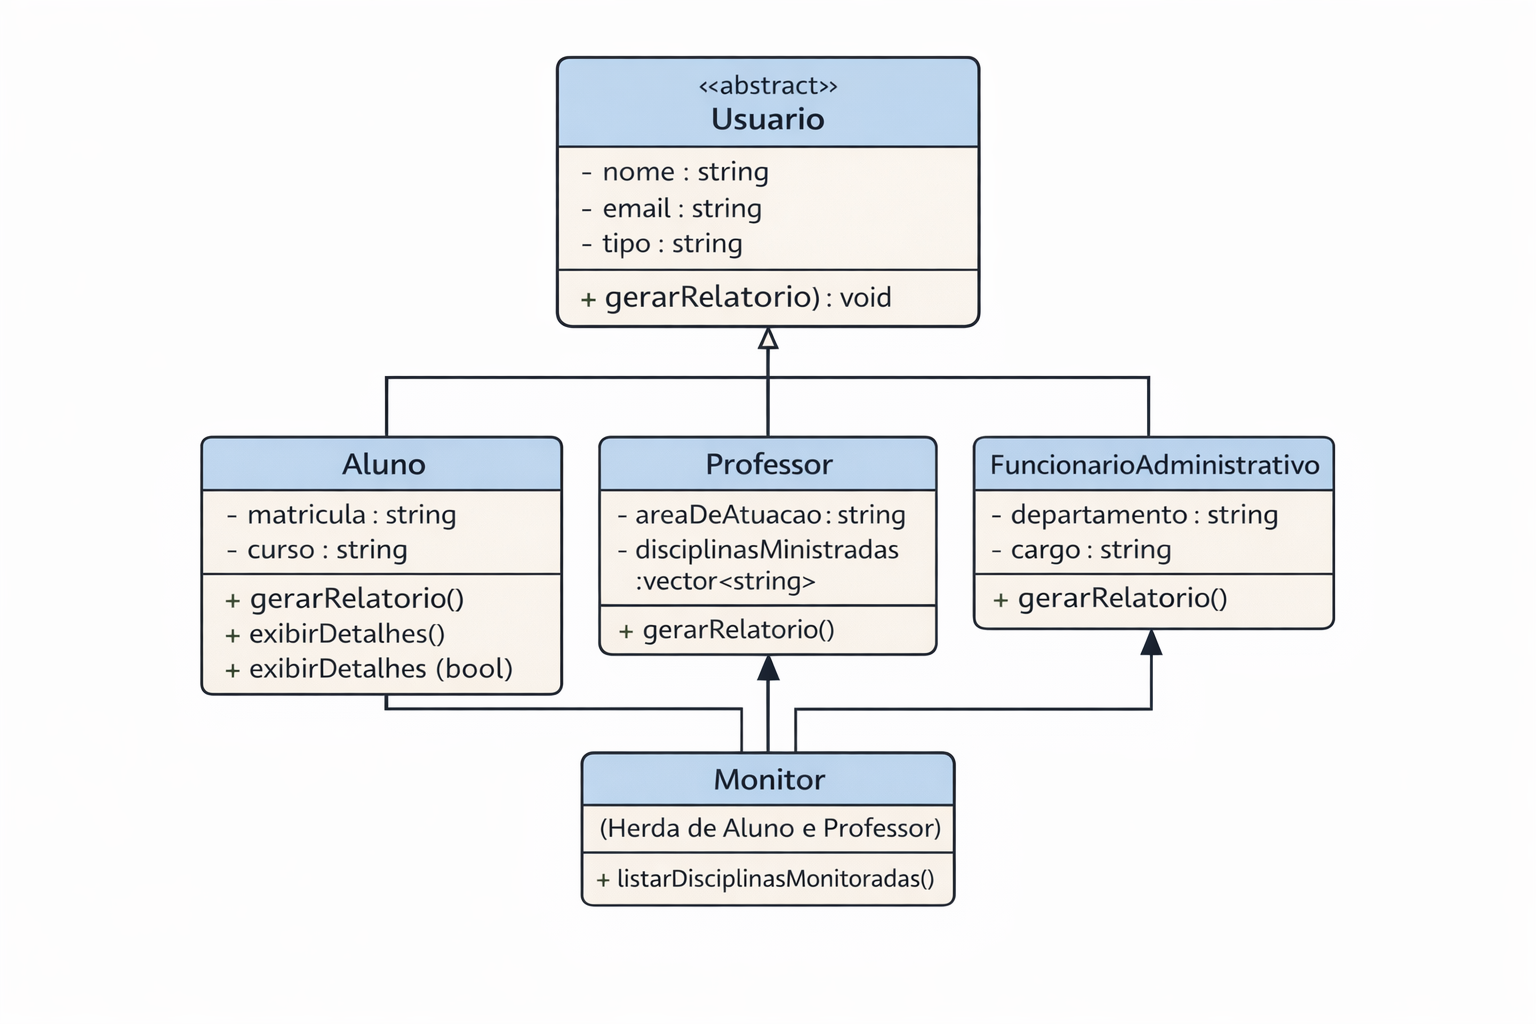
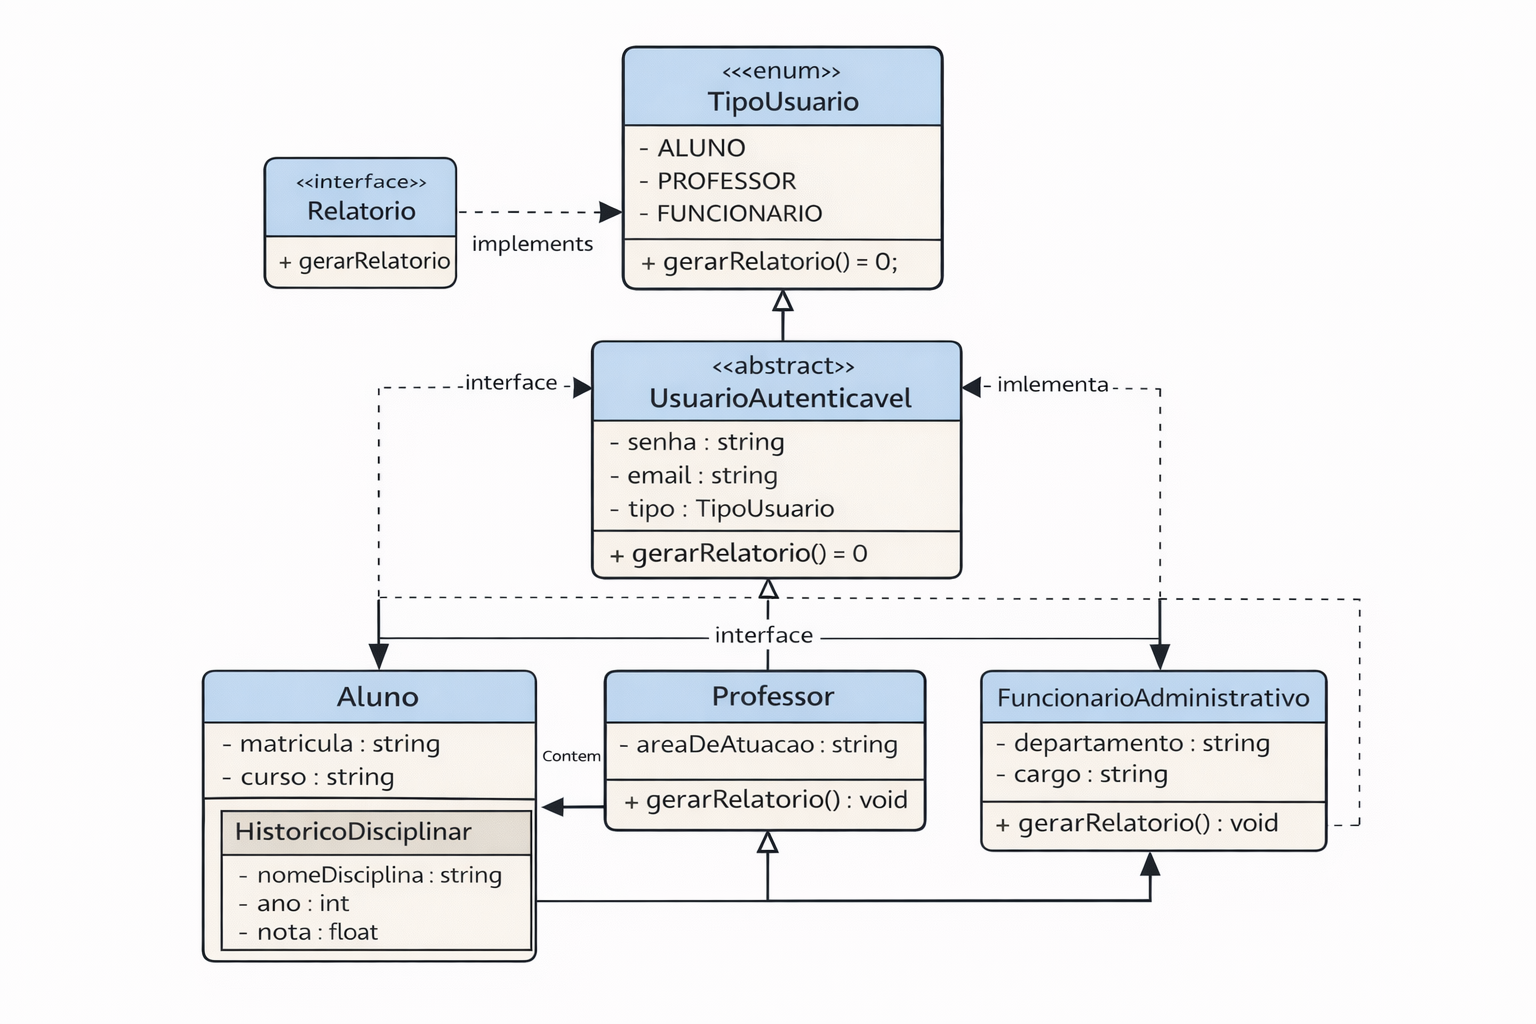
Projeto_6_Aerton
Este projeto foi desenvolvido em C++ com o objetivo de aplicar conceitos avançados de Programação Orientada a Objetos, como classes abstratas, interfaces, enums e classes internas. O sistema simula um ambiente acadêmico com autenticação de usuários, geração de relatórios e categorização por tipo de usuário. Também foi criado um diagrama UML para representar a estrutura, hierarquia e relacionamentos entre as classes.

Changed region(s): [[0.125, 0.0312, 0.875, 0.9375]]

diff --git a/aluno.h b/aluno.h
@@ -1,25 +1,34 @@
 #ifndef ALUNO_H
 #define ALUNO_H
 
-#include "Usuario.h"
+#include <string>
 #include <vector>
+#include <iostream>
+#include "UsuarioAutenticavel.h"
+#include "Relatorio.h"
+#include "TipoUsuario.h"
 
-class Aluno : public Usuario {
-protected:
-    string matricula;
-    string curso;
-    vector<string> disciplinas;
-
+class Aluno : public UsuarioAutenticavel, public Relatorio {
+private:
+    TipoUsuario tipo;
 public:
-    Aluno();
-    Aluno(string nome, string email, string matricula, string curso);
+    Aluno(const std::string& nome, const std::string& senha);
 
-    void adicionarDisciplina(string d);
+    bool autenticar(const std::string& senhaTentativa) const override;
+    void gerarRelatorio() const override;
 
-    void gerarRelatorio();
+    // Classe interna
+    class HistoricoDisciplinar {
+    private:
+        std::string disciplina;
+        int ano;
+        double nota;
+    public:
+        HistoricoDisciplinar(const std::string& disciplina, int ano, double nota);
+        void exibir() const;
+    };
 
-    void exibirDetalhes();
-    void exibirDetalhes(bool comNotas);
+    std::vector<HistoricoDisciplinar> historico;
 };
 
-#endif
+#endif // ALUNO_H

diff --git a/main.cpp b/main.cpp
@@ -1,27 +1,26 @@
 #include <iostream>
 #include "Aluno.h"
-#include "Disciplina.h"
-
-using namespace std;
+#include "Professor.h"
+#include "FuncionarioAdministrativo.h"
 
 int main() {
+    Aluno aluno("Carlos", "1234");
+    Professor prof("Maria", "abcd");
+    FuncionarioAdministrativo func("João", "admin");
 
-    Aluno aluno1("Joao", "2023001", "ADS");
+    if (aluno.autenticar("1234")) {
+        aluno.gerarRelatorio();
+        aluno.historico.push_back(Aluno::HistoricoDisciplinar("POO", 2024, 9.0));
+        aluno.historico[0].exibir();
+    }
 
-    Disciplina d1("Matematica", 60, 7.0);
-    Disciplina d2("Programacao", 80, 5.5);
+    if (prof.autenticar("abcd")) {
+        prof.gerarRelatorio();
+    }
 
-    aluno1.exibirInformacoes();
-
-    if (verificarAprovacao(d1))
-        cout << "Aprovado em Matematica" << endl;
-    else
-        cout << "Reprovado em Matematica" << endl;
-
-    if (verificarAprovacao(d2))
-        cout << "Aprovado em Programacao" << endl;
-    else
-        cout << "Reprovado em Programacao" << endl;
+    if (func.autenticar("admin")) {
+        func.gerarRelatorio();
+    }
 
     return 0;
 }

diff --git a/funcionarioadiministrativo.h b/funcionarioadiministrativo.h
@@ -1,18 +1,20 @@
-#ifndef FUNCIONARIOADMINISTRATIVO_H
-#define FUNCIONARIOADMINISTRATIVO_H
+#ifndef FUNCIONARIO_ADMINISTRATIVO_H
+#define FUNCIONARIO_ADMINISTRATIVO_H
 
-#include "Usuario.h"
+#include <string>
+#include <iostream>
+#include "UsuarioAutenticavel.h"
+#include "Relatorio.h"
+#include "TipoUsuario.h"
 
-class FuncionarioAdministrativo : public Usuario {
+class FuncionarioAdministrativo : public UsuarioAutenticavel, public Relatorio {
 private:
-    string departamento;
-    string cargo;
-
+    TipoUsuario tipo;
 public:
-    FuncionarioAdministrativo();
-    FuncionarioAdministrativo(string nome, string email, string dep, string cargo);
+    FuncionarioAdministrativo(const std::string& nome, const std::string& senha);
 
-    void gerarRelatorio();
+    bool autenticar(const std::string& senhaTentativa) const override;
+    void gerarRelatorio() const override;
 };
 
-#endif
+#endif // FUNCIONARIO_ADMINISTRATIVO_H

diff --git a/professor.h b/professor.h
@@ -1,21 +1,20 @@
 #ifndef PROFESSOR_H
 #define PROFESSOR_H
 
-#include "Usuario.h"
-#include <vector>
+#include <string>
+#include <iostream>
+#include "UsuarioAutenticavel.h"
+#include "Relatorio.h"
+#include "TipoUsuario.h"
 
-class Professor : public Usuario {
-protected:
-    string areaDeAtuacao;
-    vector<string> disciplinasMinistradas;
-
+class Professor : public UsuarioAutenticavel, public Relatorio {
+private:
+    TipoUsuario tipo;
 public:
-    Professor();
-    Professor(string nome, string email, string area);
+    Professor(const std::string& nome, const std::string& senha);
 
-    void adicionarDisciplina(string d);
-
-    void gerarRelatorio();
+    bool autenticar(const std::string& senhaTentativa) const override;
+    void gerarRelatorio() const override;
 };
 
-#endif
+#endif // PROFESSOR_H

diff --git a/usuarioautenticavel.h b/usuarioautenticavel.h
@@ -1,0 +1,16 @@
+#ifndef USUARIO_AUTENTICAVEL_H
+#define USUARIO_AUTENTICAVEL_H
+
+#include <string>
+#include "Usuario.h"
+
+class UsuarioAutenticavel : public Usuario {
+protected:
+    std::string senha;
+public:
+    UsuarioAutenticavel(const std::string& nome, const std::string& senha);
+    virtual bool autenticar(const std::string& senhaTentativa) const = 0; // método abstrato
+    virtual ~UsuarioAutenticavel() = default;
+};
+
+#endif // USUARIO_AUTENTICAVEL_H

diff --git a/relatorio.h b/relatorio.h
@@ -1,0 +1,10 @@
+#ifndef RELATORIO_H
+#define RELATORIO_H
+
+class Relatorio {
+public:
+    virtual ~Relatorio() = default;
+    virtual void gerarRelatorio() const = 0; // interface
+};
+
+#endif // RELATORIO_H

diff --git a/tipodeusuario.h b/tipodeusuario.h
@@ -1,0 +1,10 @@
+#ifndef TIPO_USUARIO_H
+#define TIPO_USUARIO_H
+
+enum class TipoUsuario {
+    ALUNO,
+    PROFESSOR,
+    FUNCIONARIO_ADMINISTRATIVO
+};
+
+#endif // TIPO_USUARIO_H
